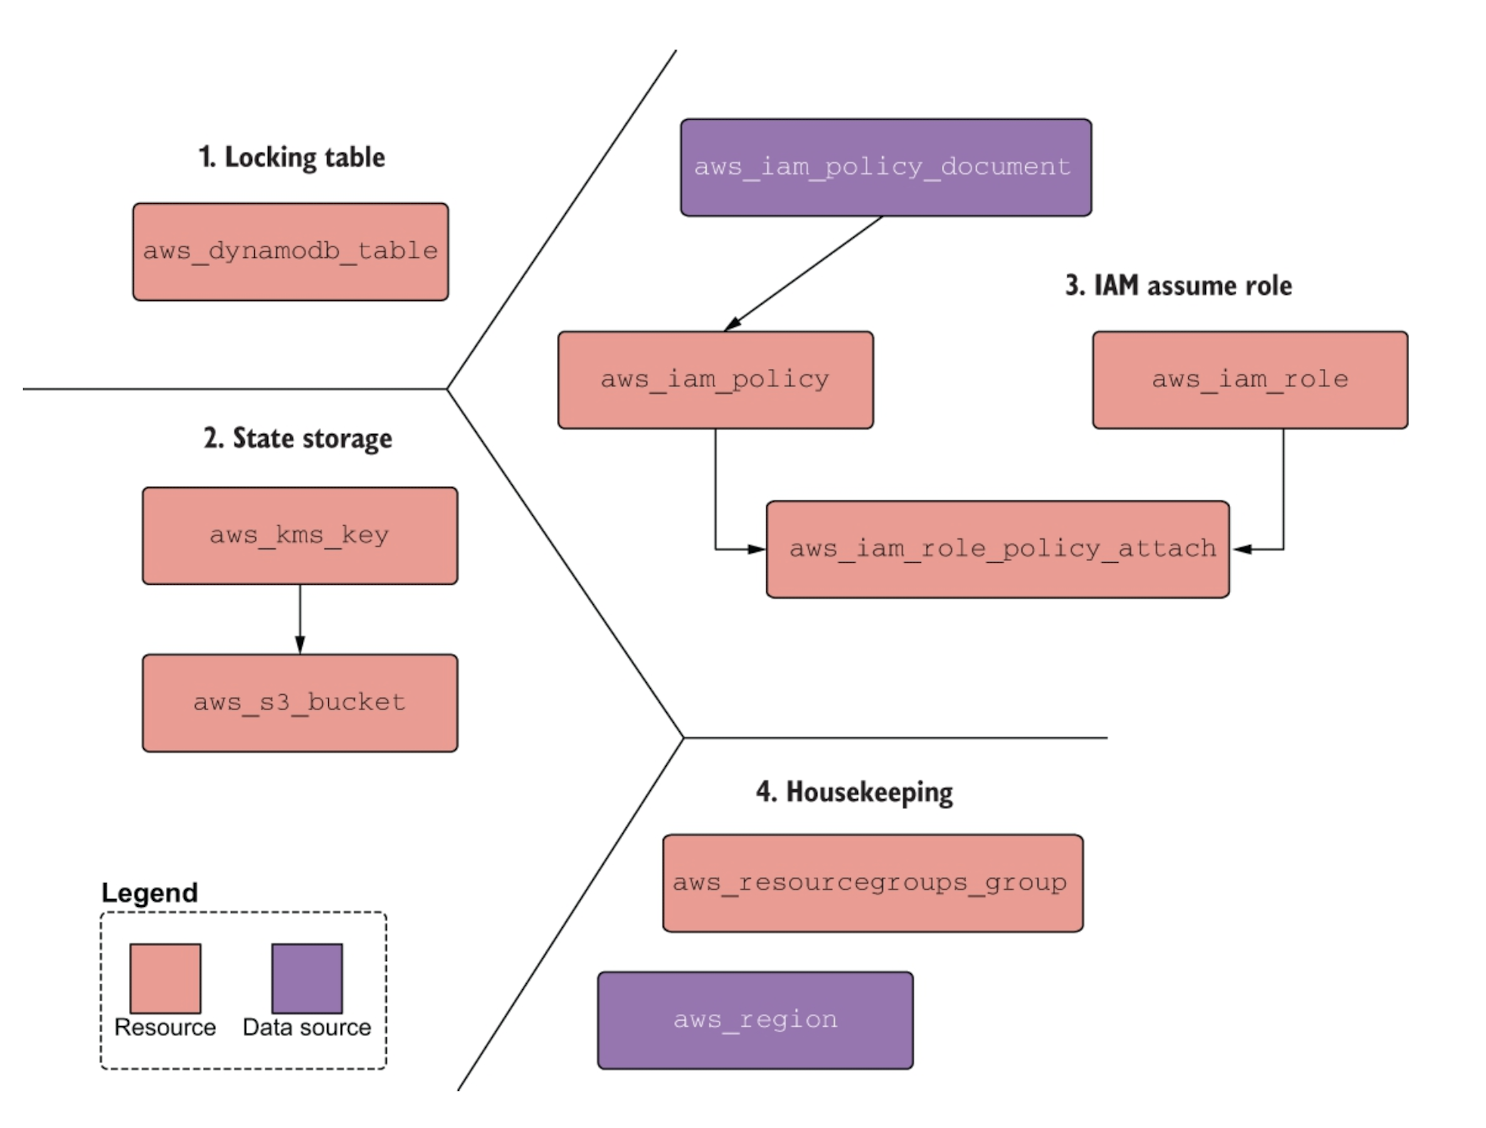
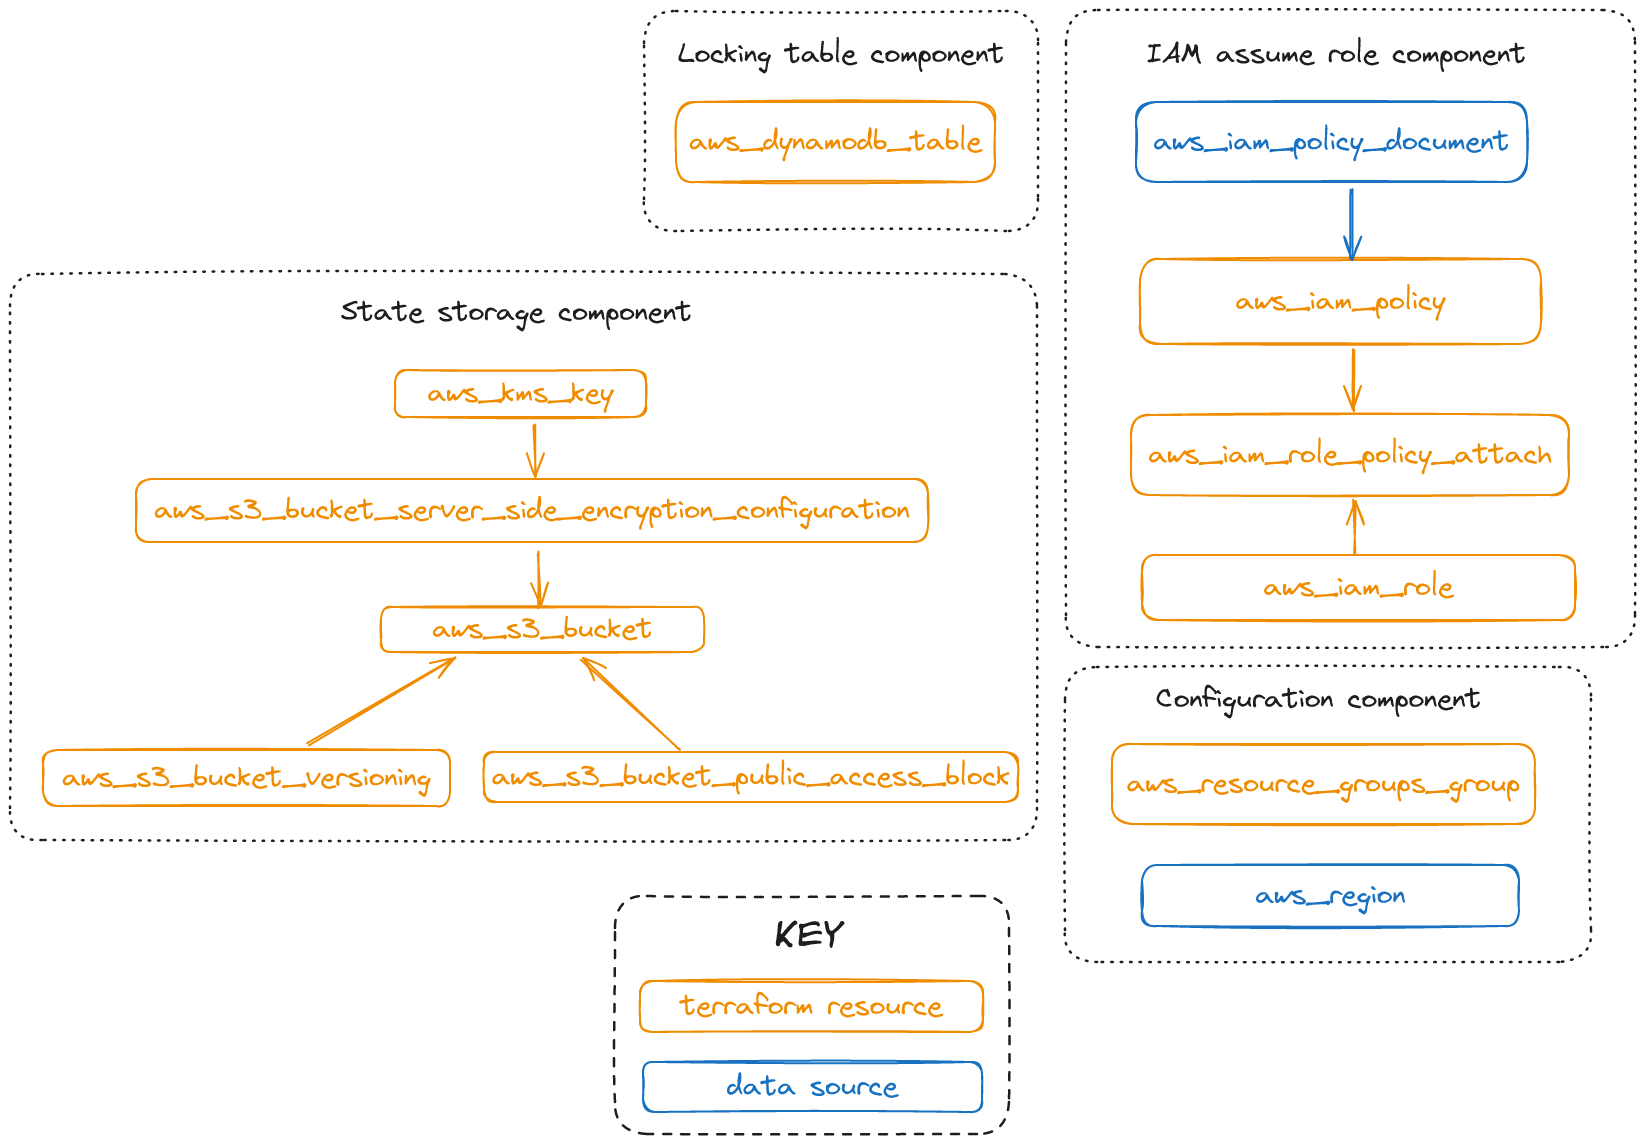
excalidraw based s3_backend_module_components.png

diff --git a/README.md b/README.md
@@ -18,6 +18,8 @@ In this module we follow the [Standard Module Structure](https://developer.hashi
 
 The following key references were leveraged in this work.
 
+The first one is the key reference that I used and I've updated the publically available [S3 Backend Module source](https://github.com/terraform-in-action/manning-code/tree/master/chapter6) to use the latest provider versions (amongst other adaptations).
+
 - [Terraform in Action, Chapter 6, Scott Winkler](https://www.manning.com/books/terraform-in-action) *I highly recommend buying a copy of this book.* 
 - [Hashicorp S3 Backend Online Documentation](https://developer.hashicorp.com/terraform/language/settings/backends/s3)
 
@@ -50,7 +52,7 @@ Four distinct components comprise the S3 backend module:
 
 The following diagram shows the four distinct components that make up the S3 Backend Module.
 
-## S3 Backend Module Architecture Diagram
+## S3 Backend Module Detailed Component Diagram
 
 ![S3 backend variables](readme_pics/s3_backend_module_components.png)
 
